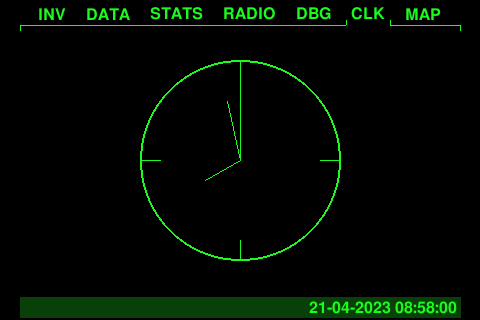
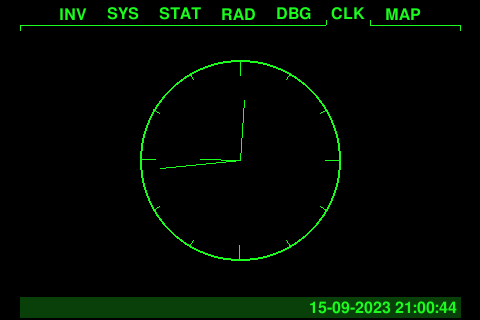
updated readme, added missing app images, updated existsinig app images due to changes in header

diff --git a/README.md b/README.md
@@ -12,22 +12,32 @@ Provides basic functions for moving, copying and deleting files and directories.
 
 ![inv](./docs/inv.png)
 
-#### Map App
-Supports zooming and moving the map around. Don't get lost in the wasteland.
+#### System App
+Can fetch and install updates from the git repository.
 
-![map](./docs/map.png)
+![sys](./docs/sys.png)
 
-#### Clock App
-It just shows the time on a classic analog clock.
+#### Radio App
+Actually more like a classic music player. Stay tuned!
 
-![clk](./docs/clk.png)
+![rad](./docs/rad.png)
 
 #### Debug App
 Shows the last pressed key to help you check the key wiring.
 
 ![dbg](./docs/dbg.png)
 
-Other apps shown in the header are currently placeholders.
+#### Clock App
+It just shows the time on a classic analog clock.
+
+![clk](./docs/clk.png)
+
+#### Map App
+Supports zooming and moving the map around. Don't get lost in the wasteland.
+
+![map](./docs/map.png)
+
+Other shown apps are currently placeholders and not implemented yet.
 
 ## Hardware
 
@@ -74,13 +84,14 @@ To enable logging, use the following instead:
 @reboot cd /home/pi/piboy && (.venv/bin/python -u piboy.py >log 2>err) &
 ````
 
-You might have to make sure, that ``DEV_MODE`` in ``config.py`` is set to ``0``.
+To use the hardware input and display, set ``dev_move`` in ``config.yaml`` to `false` (file will be created after first
+start).
 
 ## Configuration
 
 On first run, the PiBoy script will create a ``config.yaml`` if not found. In that config file, you can configure
-everything that relates to appearance and wiring. When running on a Raspberry Pi, ``dev_move`` must be set to ``False``
-if not set by default. For development, it must be set to ``True`` instead, obviously. This setting automatically loads
+everything that relates to appearance and wiring. When running on a Raspberry Pi, ``dev_move`` must be set to ``false``
+if not set by default. For development, it must be set to ``true`` instead, obviously. This setting automatically loads
 the right input and display modules. On a Raspberry Pi, ``ILI9486Interface`` and ``GPIOInput`` are being used. For
 development, ``TkInterface`` or ``SelfManagedTkInterface`` can be used, both implement full input and display
 functionality.
@@ -104,8 +115,10 @@ See [instructions for prototype 1](./docs/PROTO1.md).
 * [x] case
 * [x] file manager app
 * [x] map app
-* [ ] radio app
+* [x] radio app
 * [ ] other apps (?)
+* [ ] environment sensors (temperature, humidity, ...)
 * [ ] GPS module
 * [ ] battery power
+* [ ] improved case
 * [ ] utilities
